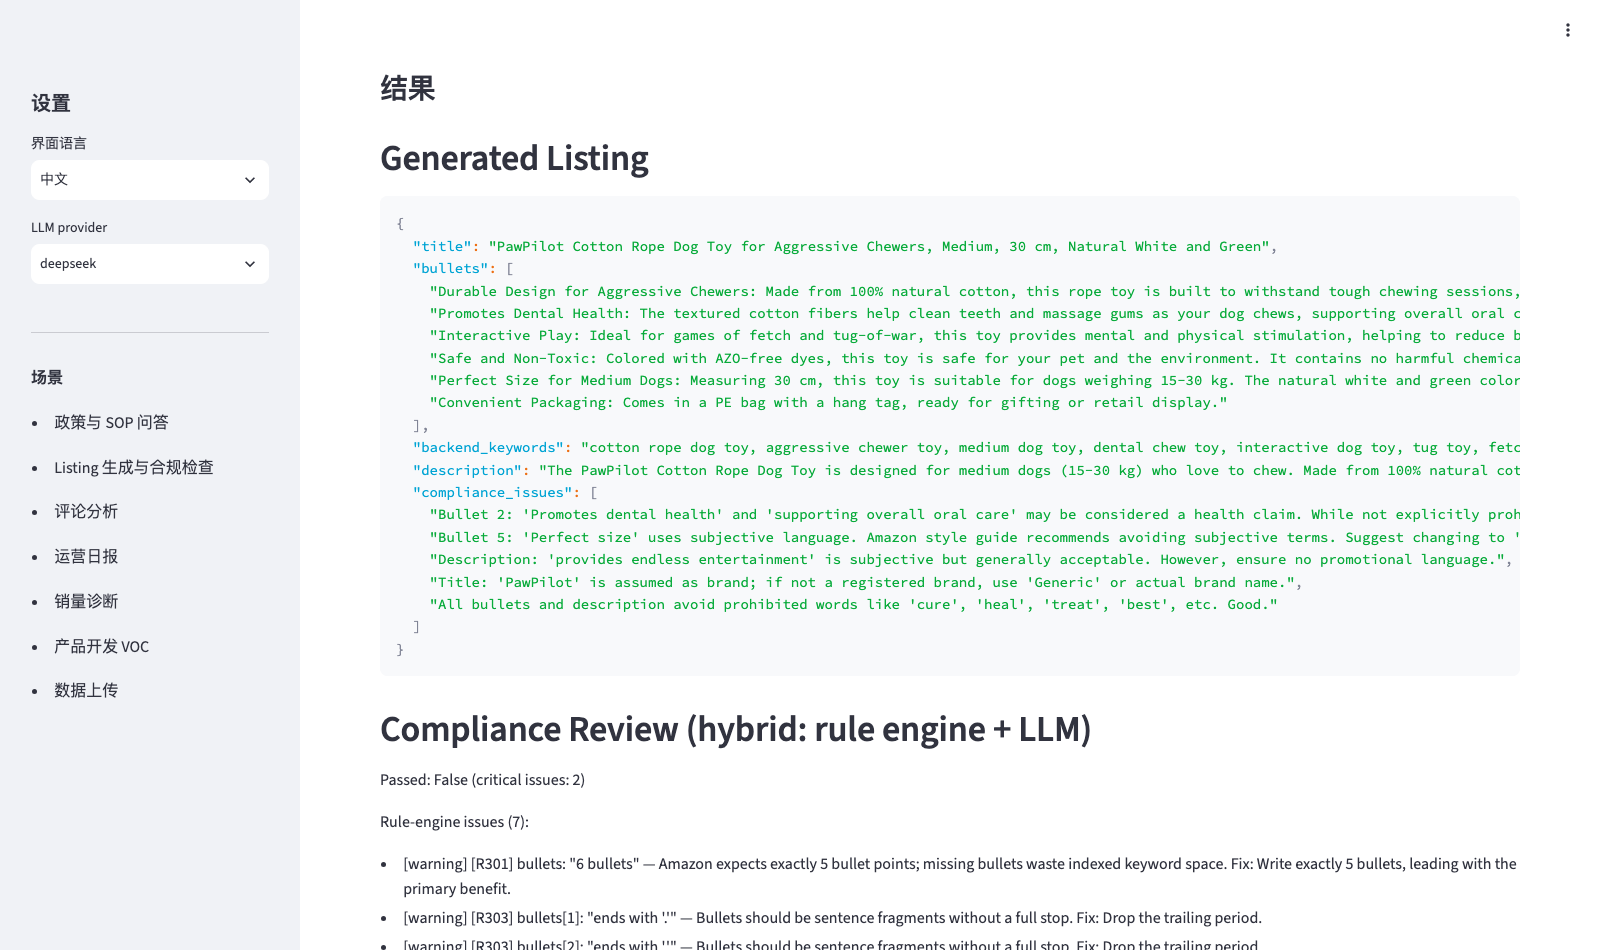
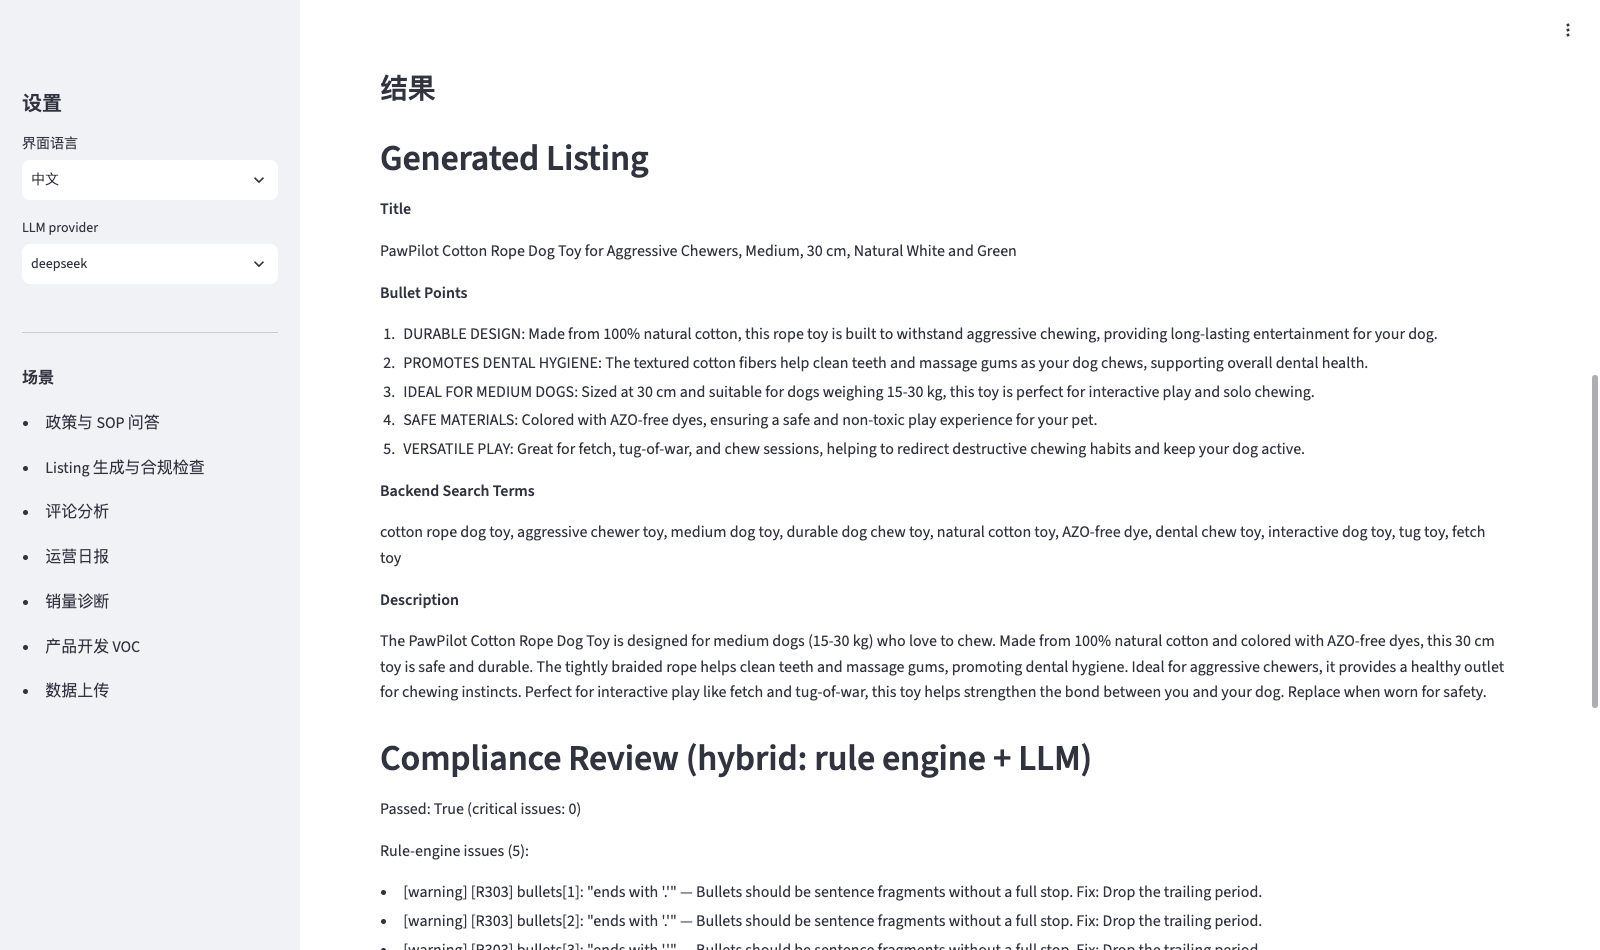
fix: render listing as readable markdown + harden UI API error handling
- listing_gen: render the generated listing as human-readable Markdown
  (title, numbered bullets, search terms, description) instead of dumping
  the raw JSON dict into a code block, so the Streamlit result tab reads
  like a real listing.
- web/app.py: catch httpx.HTTPStatusError in both API helpers so a non-2xx
  from the backend (e.g. an older API without /api/import-csv/types during
  the tab7 probe) no longer crashes the whole Streamlit rerun with a
  traceback; the error is surfaced inside the calling tab instead.
- web/i18n.py: add zh/en err.http_error message.
- Refresh the 02-listing-compliance screenshot to show the fixed output.

diff --git a/app/scenarios/listing_gen.py b/app/scenarios/listing_gen.py
@@ -105,6 +105,53 @@ class ListingGenScenario:
             })
         return normalized
 
+    @staticmethod
+    def _listing_to_markdown(listing: Any) -> list[str]:
+        """Render the generated listing dict as readable Markdown."""
+        if not isinstance(listing, dict):
+            return [str(listing)]
+
+        lines: list[str] = []
+        if title := listing.get("title"):
+            lines += ["**Title**", "", str(title), ""]
+
+        bullets = listing.get("bullets") or []
+        if isinstance(bullets, list) and bullets:
+            lines += ["**Bullet Points**", ""]
+            lines += [f"{idx}. {bullet}" for idx, bullet in enumerate(bullets, start=1)]
+            lines.append("")
+
+        keywords = (
+            listing.get("backend_keywords")
+            or listing.get("search_terms")
+            or listing.get("keywords")
+        )
+        if keywords:
+            if isinstance(keywords, list):
+                keywords = ", ".join(str(k) for k in keywords)
+            lines += ["**Backend Search Terms**", "", str(keywords), ""]
+
+        if description := listing.get("description"):
+            lines += ["**Description**", "", str(description), ""]
+
+        # Render any unexpected fields generically. Skip the LLM's raw
+        # self-check notes: the structured compliance report below
+        # already presents the same findings.
+        handled = {
+            "title",
+            "bullets",
+            "backend_keywords",
+            "search_terms",
+            "keywords",
+            "description",
+            "compliance_issues",
+        }
+        for key, value in listing.items():
+            if key in handled or value in (None, "", [], {}):
+                continue
+            lines += [f"**{key.replace('_', ' ').title()}**", "", str(value), ""]
+        return lines
+
     @classmethod
     def _format_final_answer(
         cls,
@@ -118,10 +165,9 @@ class ListingGenScenario:
         ) + sum(1 for i in llm_issues if str(i.get("severity")).lower() in ("critical", "high"))
         passed = critical_count == 0
 
-        lines = [
-            "## Generated Listing",
-            "",
-            f"```json\n{json.dumps(listing, ensure_ascii=False, indent=2)}\n```",
+        lines = ["## Generated Listing", ""]
+        lines += cls._listing_to_markdown(listing)
+        lines += [
             "",
             "## Compliance Review (hybrid: rule engine + LLM)",
             "",

diff --git a/web/app.py b/web/app.py
@@ -117,6 +117,11 @@ def _call_api(method: str, path: str, json_payload: dict[str, Any] | None = None
         return response.json()
     except httpx.ConnectError:
         return {"_api_error": True, "detail": t("err.backend_down", url=url)}
+    except httpx.HTTPStatusError as exc:
+        # Never let a non-2xx (e.g. a 404 from an older API during the
+        # tab7 /types probe) crash the whole Streamlit rerun; surface it
+        # as an in-page error in the tab that made the call.
+        return {"_api_error": True, "detail": _http_error_detail(exc)}
 
 
 def _call_upload_api(path: str, file: Any, filename: str, form: dict[str, str]) -> dict[str, Any]:
@@ -133,6 +138,18 @@ def _call_upload_api(path: str, file: Any, filename: str, form: dict[str, str]) 
         return response.json()
     except httpx.ConnectError:
         return {"_api_error": True, "detail": t("err.backend_down_short", url=url)}
+    except httpx.HTTPStatusError as exc:
+        return {"_api_error": True, "detail": _http_error_detail(exc)}
+
+
+def _http_error_detail(exc: httpx.HTTPStatusError) -> str:
+    """Build a readable message from a non-2xx response."""
+    detail = exc.response.text
+    try:
+        detail = exc.response.json().get("detail", detail)
+    except ValueError:
+        pass
+    return t("err.http_error", code=exc.response.status_code, detail=detail)
 
 
 with tab1:

diff --git a/web/i18n.py b/web/i18n.py
@@ -42,6 +42,8 @@ zh: dict[str, str] = {
         "uv run uvicorn app.api.main:app --reload",
     "err.backend_down_short":
         "无法连接 PawPilot API（{url}）。请确认 FastAPI 后端已启动。",
+    "err.http_error":
+        "API 返回错误（HTTP {code}）：{detail}",
 
     # Tab 名 -------------------------------------------------------------
     "tab.policy": "政策与 SOP 问答",
@@ -174,6 +176,8 @@ en: dict[str, str] = {
     "err.backend_down_short":
         "Cannot connect to PawPilot API at {url}. "
         "Please make sure the FastAPI backend is running.",
+    "err.http_error":
+        "API returned an error (HTTP {code}): {detail}",
 
     "tab.policy": "Policy Q&A",
     "tab.listing": "Listing + Compliance",
